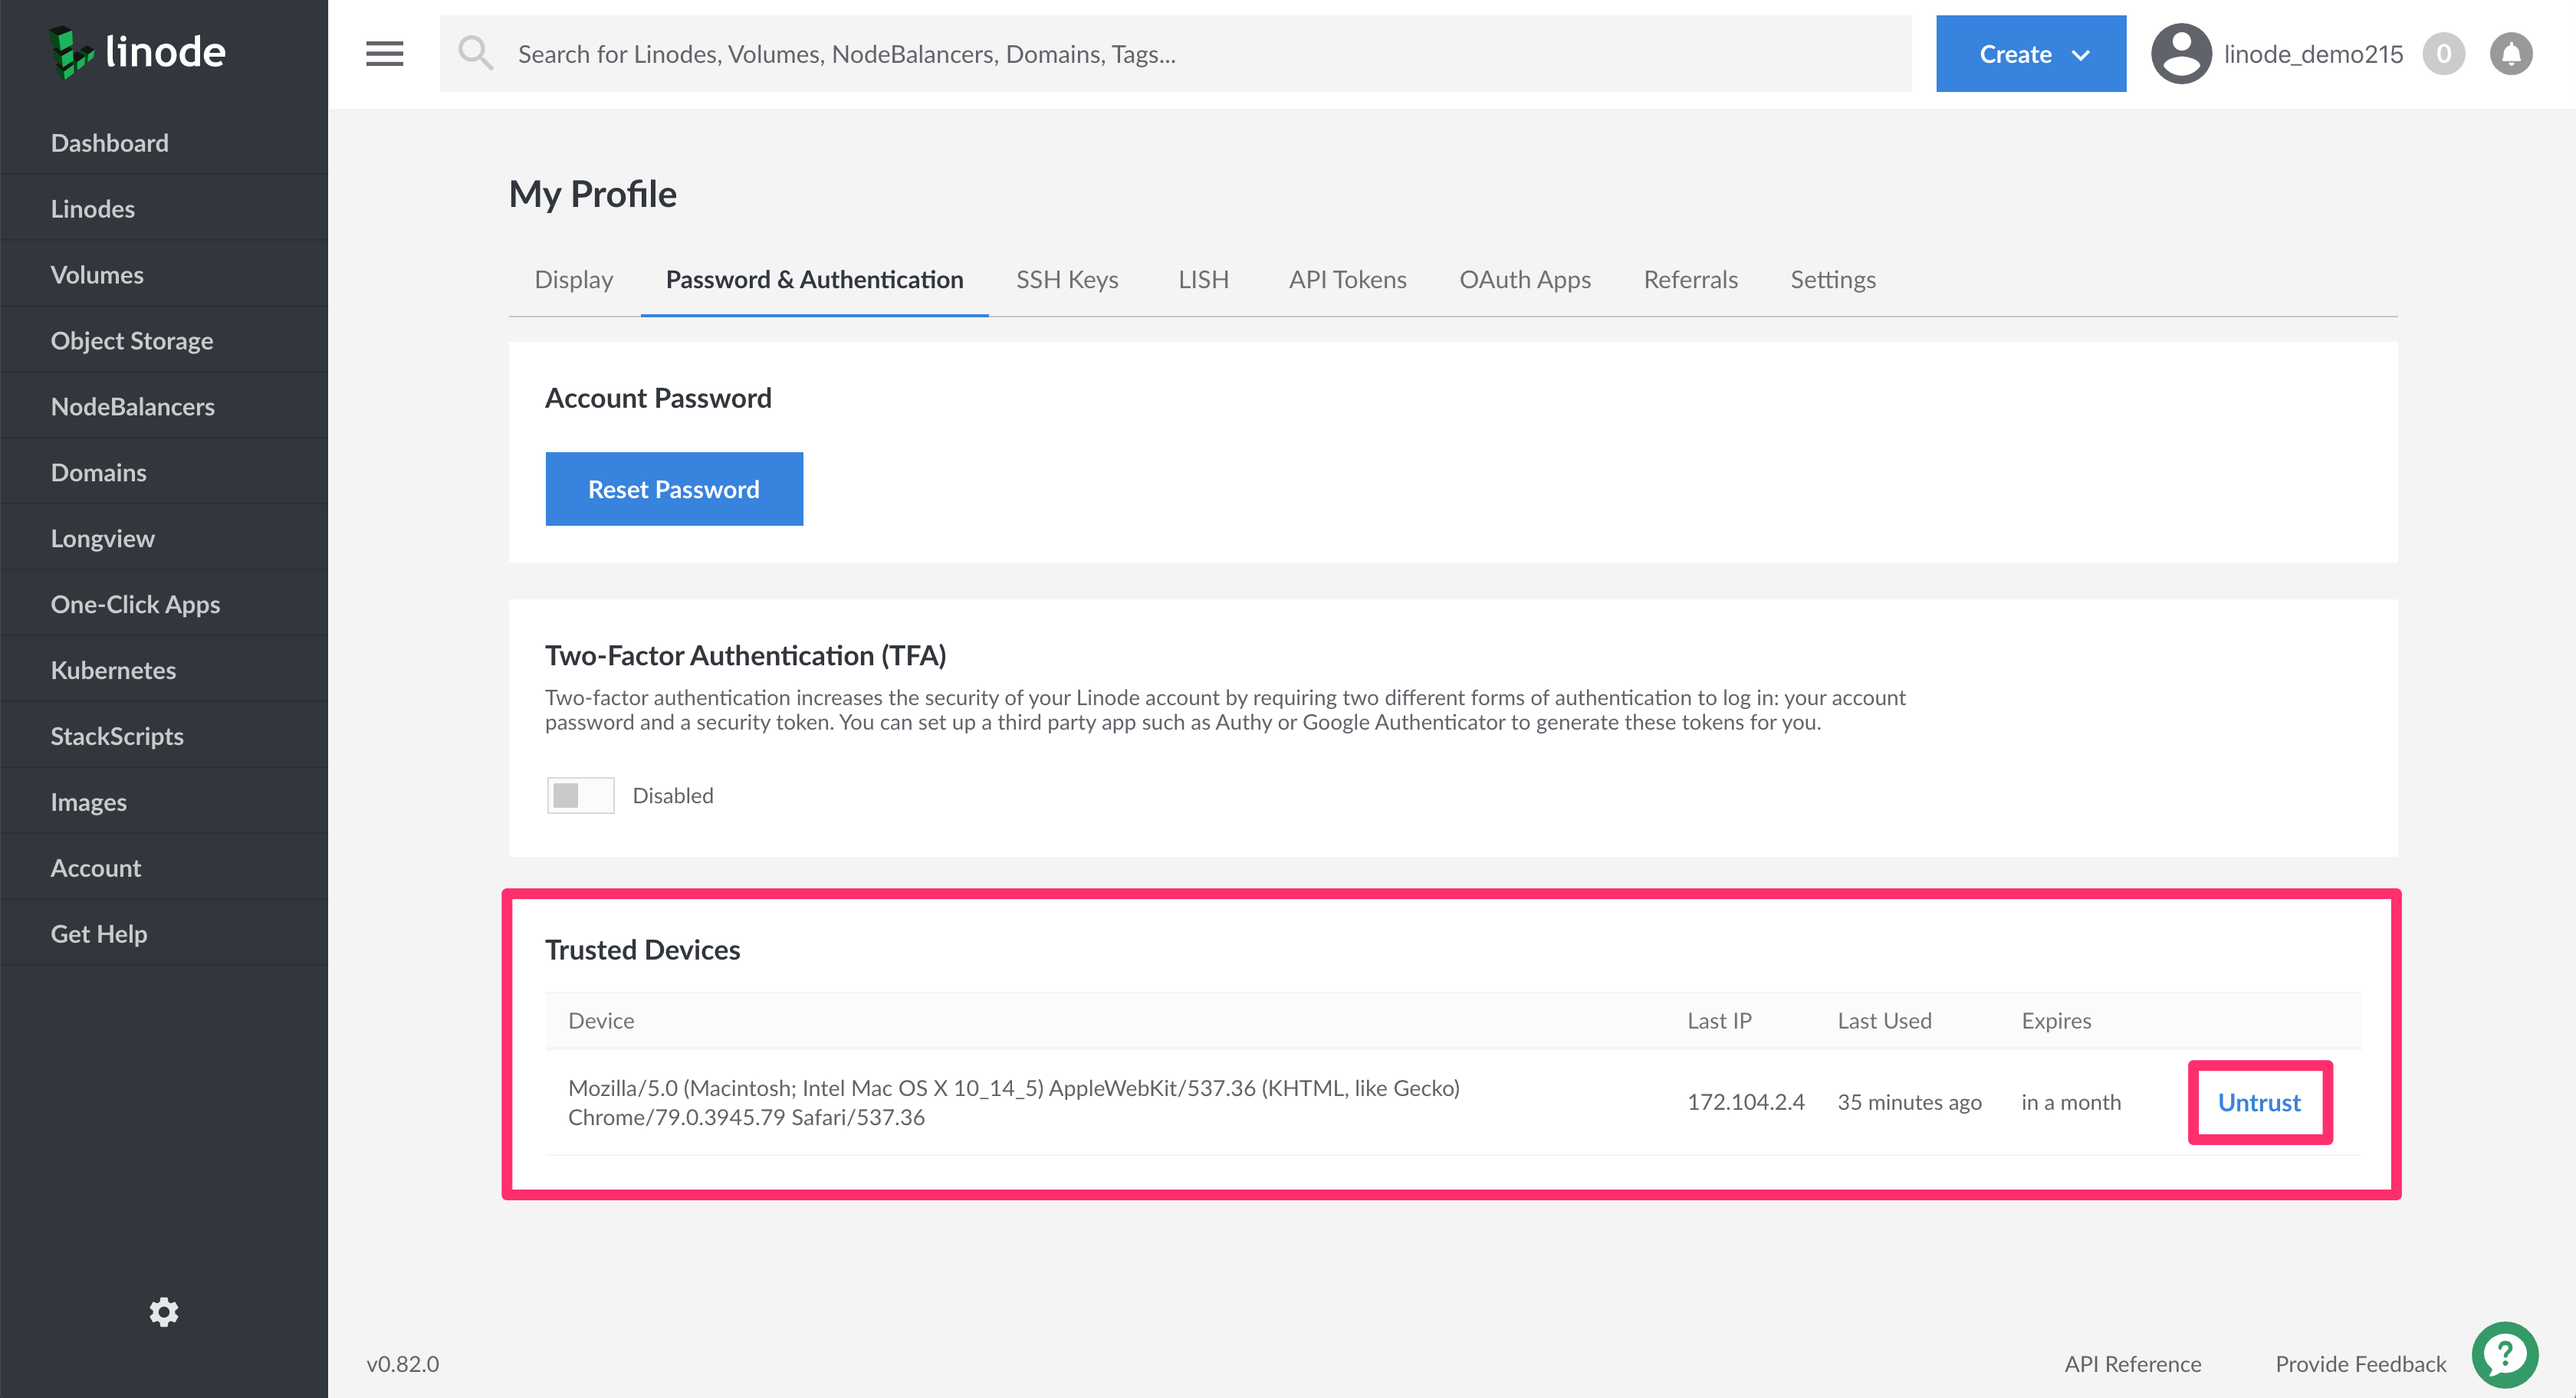
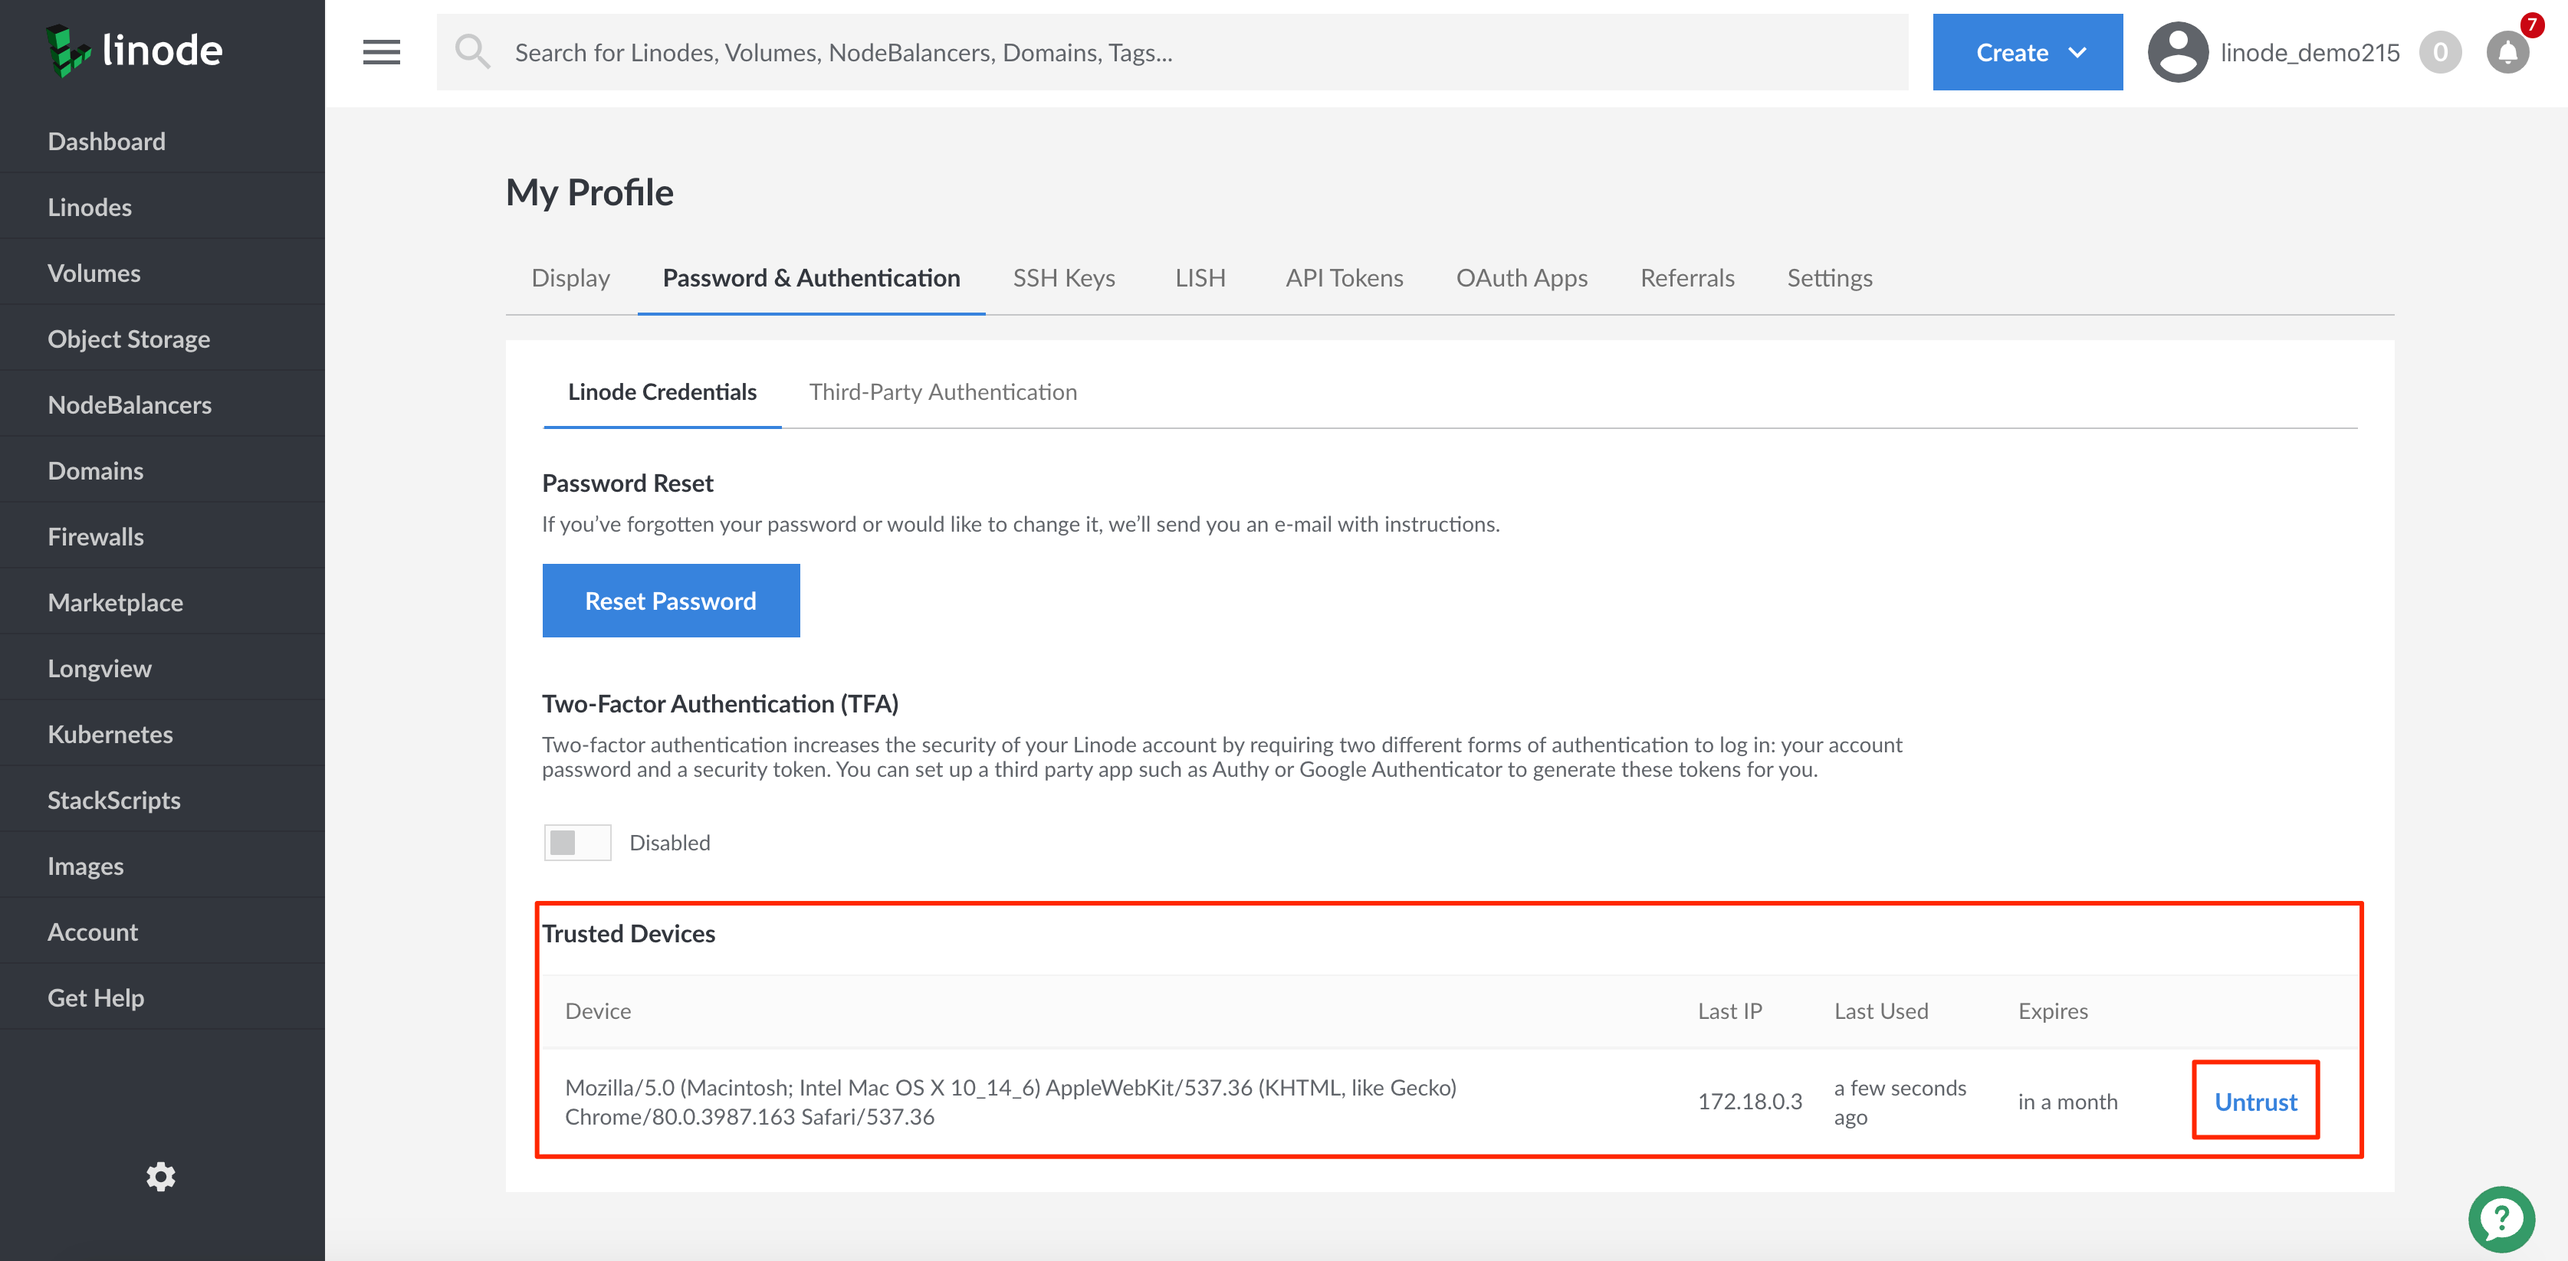
Initial commit
- New guide on TPA
- Update screenshot in TFA guide
- Include mention of new guide in Cloud overview guide

diff --git a/docs/platform/manager/third-party-authentication/index.md b/docs/platform/manager/third-party-authentication/index.md
@@ -1,0 +1,60 @@
+---
+author:
+  name: Linode Community
+  email: docs@linode.com
+description: 'How to enable Third Party Authentication (TPA) for your Linode account, allowing you to log in to Linode Cloud Manager with third party credentials.'
+og_description: 'How to enable Third Party Authentication (TPA) for your Linode account, allowing you to log in to Linode Cloud Manager with third party credentials.'
+keywords: ['tpa','third party authentication','github','account','password']
+license: '[CC BY-ND 4.0](https://creativecommons.org/licenses/by-nd/4.0)'
+published: 2020-04-22
+modified_by:
+  name: Linode
+title: "How to Enable Third Party Authentication on Your Linode Account"
+h1_title: "Enabling Third Party Authentication on Your Linode Account."
+---
+
+Linode Cloud Manager supports Third-Party Authentication (TPA). This allows you to log in to the Linode Cloud Manager with another provider's login credentials.
+
+## Enabling Third Party Authentication
+
+1.  To get started with TPA, log in to the [Linode Cloud Manager](https://cloud.linode.com) using your existing username and password.
+
+1.  Navigate to your profile by clicking on your username in the top right of the screen.
+
+    ![Navigate to your profile by clicking on your username in the top right of the screen](profile-menu.png)
+
+1.  Click on the **Password & Authentication** tab, then click on the **Third Party Authentication** tab.
+
+    ![Navigate to the Password & Authentication tab, then the Third Party Authentication tab](third-party-authentication.png)
+
+1.  Select the Third Party Authentication provider you would like to enable on your account. You may only have one TPA provider active at a time. You will be asked to confirm that you'd like to enable TPA with this provider.
+
+    {{< caution >}}
+Enabling Third Party Authentication disables your current Linode password and Two-Factor Authentication on your Linode account. Any Two-Factor Authentication you require should be handled by the TPA provider your choose.
+{{</ caution >}}
+
+    ![Enable Third Party Authentication.](enable-tpa.png)
+
+1.  You will be taken to the TPA provider's website, where you will be prompted to give account access to Linode. You will see a list of permissions that will be granted to Linode. Confirm that you would like to grant Linode the required permissions.
+
+1.  After granting permissions, you will see a confirmation screen. You can now log in to your Cloud Manager account with the TPA provider's credentials.
+
+## Disabling Third Party Authentication
+
+1.  Log in to [Linode Cloud Manager](https://cloud.linode.com) using Third Party Authentication.
+
+1.  Navigate to your profile by clicking your username in the top right of the screen.
+
+    ![Navigate to your profile by clicking on your username in the top right of the screen](profile-menu.png)
+
+1.  Click on the **Password & Authentication** tab.
+
+1.  Click on the **Disable** button for your TPA provider. In the example below, the button is labeled **Disable GitHub Authentication**.
+
+    ![Disable a Third Party Authentication provider.](disable-tpa.png)
+
+1.  A prompt will appear confirming that you've disabled the TPA provider on your Linode account. You will need to click on the **Reset Password** button to send a password reset link to your email. This will be delivered to the email address associated with the Linode account, and not the email associated with the TPA provider. You will need to follow the link in that email to reset your Linode Cloud Manager password.
+
+    ![Send password reset email.](confirm-disable-tpa.png)
+
+1.  Once reset, you can use your new password to log in to Linode Cloud Manager.

diff --git a/docs/security/authentication/two-factor-authentication/linode-manager-security-controls/index.md b/docs/security/authentication/two-factor-authentication/linode-manager-security-controls/index.md
@@ -54,6 +54,7 @@ Enable two-factor authentication to start using it with your Linode account.
    ![Select 'My Profile'](security-my-profile.png "Select 'My Profile'")
 
 1.  Select the **Password & Authentication** tab.
+1.  If not already selected, navigate to the **Linode Credentials** tab.
 1.  In the **Two-Factor Authentication (TFA)** section, toggle the **Disabled** switch so that it reads **Enabled** to enable Two-Factor Authentication.
 1.  A new form (depicted below) will appear. Write down the **Secret Key** and store it in a safe place:
 
@@ -119,6 +120,7 @@ The Linode Cloud Manager allows you to generate a new secret key for your two-fa
    ![Select 'My Profile'](security-my-profile.png "Select My Profile")
 
 1.  Select the **Password & Authentication** tab.
+1.  If not already selected, navigate to the **Linode Credentials** tab.
 1.  In the **Two-Factor Authentication (TFA)** section, click **Reset two-factor authentication**, as shown below.
 
     ![Reset two-factor authentication.](security-reset-tfa.png "Reset two-factor authentication.")
@@ -135,6 +137,7 @@ You can disable two-factor authentication for your Linode account at any time. H
    ![Select 'My Profile'](security-my-profile.png "Select My Profile")
 
 1.  Select the **Password & Authentication** tab.
+1.  If not already selected, navigate to the **Linode Credentials** tab.
 1.  In the **Two-Factor Authentication (TFA)** section, toggle the **Enabled** switch to disable two-factor Authentication.
 1.  A confirmation window appears asking if you want to disable two-factor authentication. Click **Disable Two-Factor Authentication**.
 
@@ -158,7 +161,7 @@ Whenever you log into the Cloud Manager from a new device or computer, you can c
 
       ![Select 'My Profile'](security-my-profile.png "Select 'My Profile")
 
-1.  Select the **Password & Authentication** tab and navigate to the  **Trusted Devices** section.
+1.  Select the **Password & Authentication** tab. Then, select the **Linode Credentials** tab, and navigate to the  **Trusted Devices** section.
 
       ![View trusted devices](trusted-devices.png "View trusted devices")
 

diff --git a/docs/platform/manager/an-overview-of-the-linode-cloud-manager/index.md b/docs/platform/manager/an-overview-of-the-linode-cloud-manager/index.md
@@ -219,6 +219,7 @@ The **My Profile** section of Cloud Manager provides access to various settings 
 - [Changing your account's associated email address](/docs/platform/manager/accounts-and-passwords/#changing-your-email-address) and timezone
 - [Resetting your Account password](/docs/platform/manager/accounts-and-passwords/#changing-or-resetting-your-linode-cloud-manager-password)
 - [Enabling two-factor authentication](/docs/security/linode-manager-security-controls/#enable-two-factor-authentication)
+- [Enabling Third Party Authentication (TPA)](/docs/platform/manager/third-party-authentication/)
 - Managing trusted devices
 - [Adding and managing public SSH keys](/docs/security/authentication/use-public-key-authentication-with-ssh/#upload-your-ssh-key-to-the-cloud-manager)
 - [Managing LISH authentication methods](/docs/platform/manager/using-the-linode-shell-lish/#add-your-public-key)
